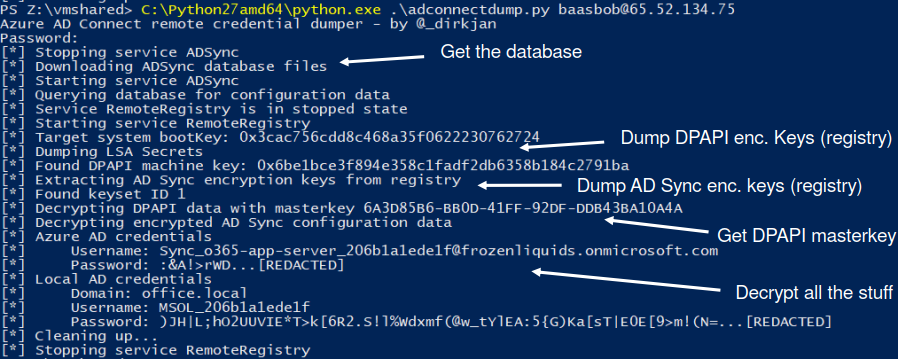
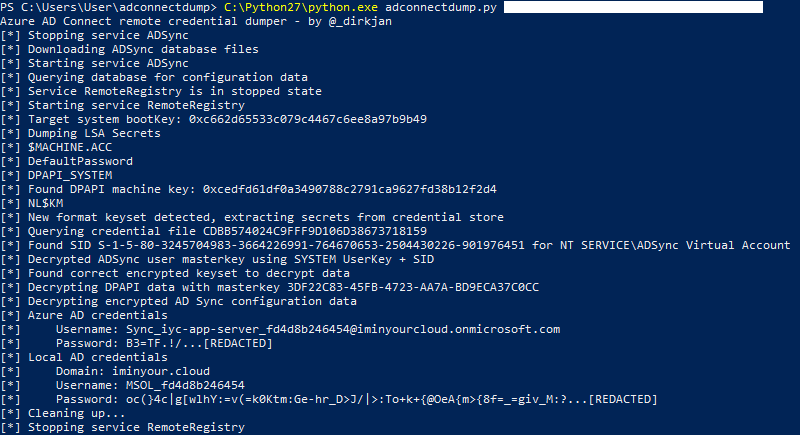
add some extra options for flexibility

diff --git a/adconnectdump.py b/adconnectdump.py
@@ -58,13 +58,17 @@ class RemoteFileRO(RemoteFile):
             self._RemoteFile__fid = None
 
 class ADSRemoteOperations(RemoteOperations):
-    def __init__(self, smbConnection, doKerberos, kdcHost=None):
+    def __init__(self, smbConnection, doKerberos, kdcHost=None, options=None):
         RemoteOperations.__init__(self, smbConnection, doKerberos, kdcHost)
         self.__smbConnection = smbConnection
         self.__serviceName = 'ADSync'
         self.__shouldStart = False
+        self.__options = options
 
     def gatherAdSyncMdb(self):
+        # Assume DB was already downloaded
+        if self.__options.existing_db:
+            return
         self.__connectSvcCtl()
         try:
             self.__checkServiceStatus()
@@ -183,15 +187,23 @@ class ADSRemoteOperations(RemoteOperations):
         return cryptkey
 
     def getMdbData(self):
-        dbpath = os.path.join(os.getcwd(), r"ADSync.mdf")
-        output = subprocess.Popen(["ADSyncQuery.exe", dbpath], stdout=subprocess.PIPE).communicate()[0]
+
         out = {
             'cryptedrecords': [],
             'xmldata': []
         }
         keydata = None
-        # infile = codecs.open('out.txt', 'r', 'utf-8')
-        for line in output.split('\n'):
+        #
+        if self.__options.from_file:
+            logging.info('Loading configuration data from %s on filesystem', self.__options.from_file)
+            infile = codecs.open(self.__options.from_file, 'r', 'utf-16-le')
+            enumtarget = infile
+        else:
+            logging.info('Querying database for configuration data')
+            dbpath = os.path.join(os.getcwd(), r"ADSync.mdf")
+            output = subprocess.Popen(["ADSyncQuery.exe", dbpath], stdout=subprocess.PIPE).communicate()[0]
+            enumtarget = output.split('\n')
+        for line in enumtarget:
             try:
                 ltype, data = line.strip().split(': ')
             except ValueError:
@@ -207,7 +219,8 @@ class ADSRemoteOperations(RemoteOperations):
                 out['instance'] = instance
                 out['keyset_id'] = keyset_id
                 out['entropy'] = entropy
-
+        if self.__options.from_file:
+            infile.close()
         return out
 
 
@@ -375,10 +388,10 @@ class DumpSecrets:
                     else:
                         raise
 
-                self.__remoteOps  = ADSRemoteOperations(self.__smbConnection, self.__doKerberos, self.__kdcHost)
+                self.__remoteOps  = ADSRemoteOperations(self.__smbConnection, self.__doKerberos, self.__kdcHost, self.__options)
                 self.fetchMdb()
-                logging.info('Querying database for configuration data')
                 mdbdata = self.getMdbData()
+                logging.info('Querying LSA secrets from remote registry')
                 self.__remoteOps.enableRegistry()
                 bootKey = self.__remoteOps.getBootKey()
             except Exception, e:
@@ -538,6 +551,9 @@ if __name__ == '__main__':
                                                        ' (if you want to parse local files)')
     parser.add_argument('-debug', action='store_true', help='Turn DEBUG output ON')
     parser.add_argument('--legacy', action='store_true', help='Use legacy keyset storage location (registry)')
+    parser.add_argument('--existing-db', action='store_true', help='Do not download the MDB but assume it is already in the current directory')
+    parser.add_argument('--from-file', action='store', metavar="FILE",
+                        help='Read the output of ADSyncQuery from a file you created previously instead of doing it live')
     parser.add_argument('-outputfile', action='store',
                         help='base output filename. Extensions will be added for sam, secrets, cached and ntds')
     group = parser.add_argument_group('authentication')

diff --git a/README.md b/README.md
@@ -40,3 +40,5 @@ Local AD credentials
 You should call `adconnectdump.py` from Windows. It will dump the Azure AD connect credentials over the network similar to secretsdump.py (you also will need to have [impacket](https://github.com/SecureAuthCorp/impacket) and `pycryptodomex` installed to run this). ADSyncQuery.exe should be in the same directory as it will be used to parse the database that is downloaded (this requires MSSQL LocalDB installed on your host).
 
 ![dump example](exampledump.png)
+
+Alternatively you can run the tool on any OS, wait for it to download the DB and error out, then copy the mdf and ldf files to your Windows machine with MSSQL, run `ADSyncQuery.exe c:\absolute\path\to\ADSync.mdf > out.txt` and use this `out.txt` on your the system which can reach the Azure AD connect host with `--existing-db` and `--from-file out.txt` to do the rest.
